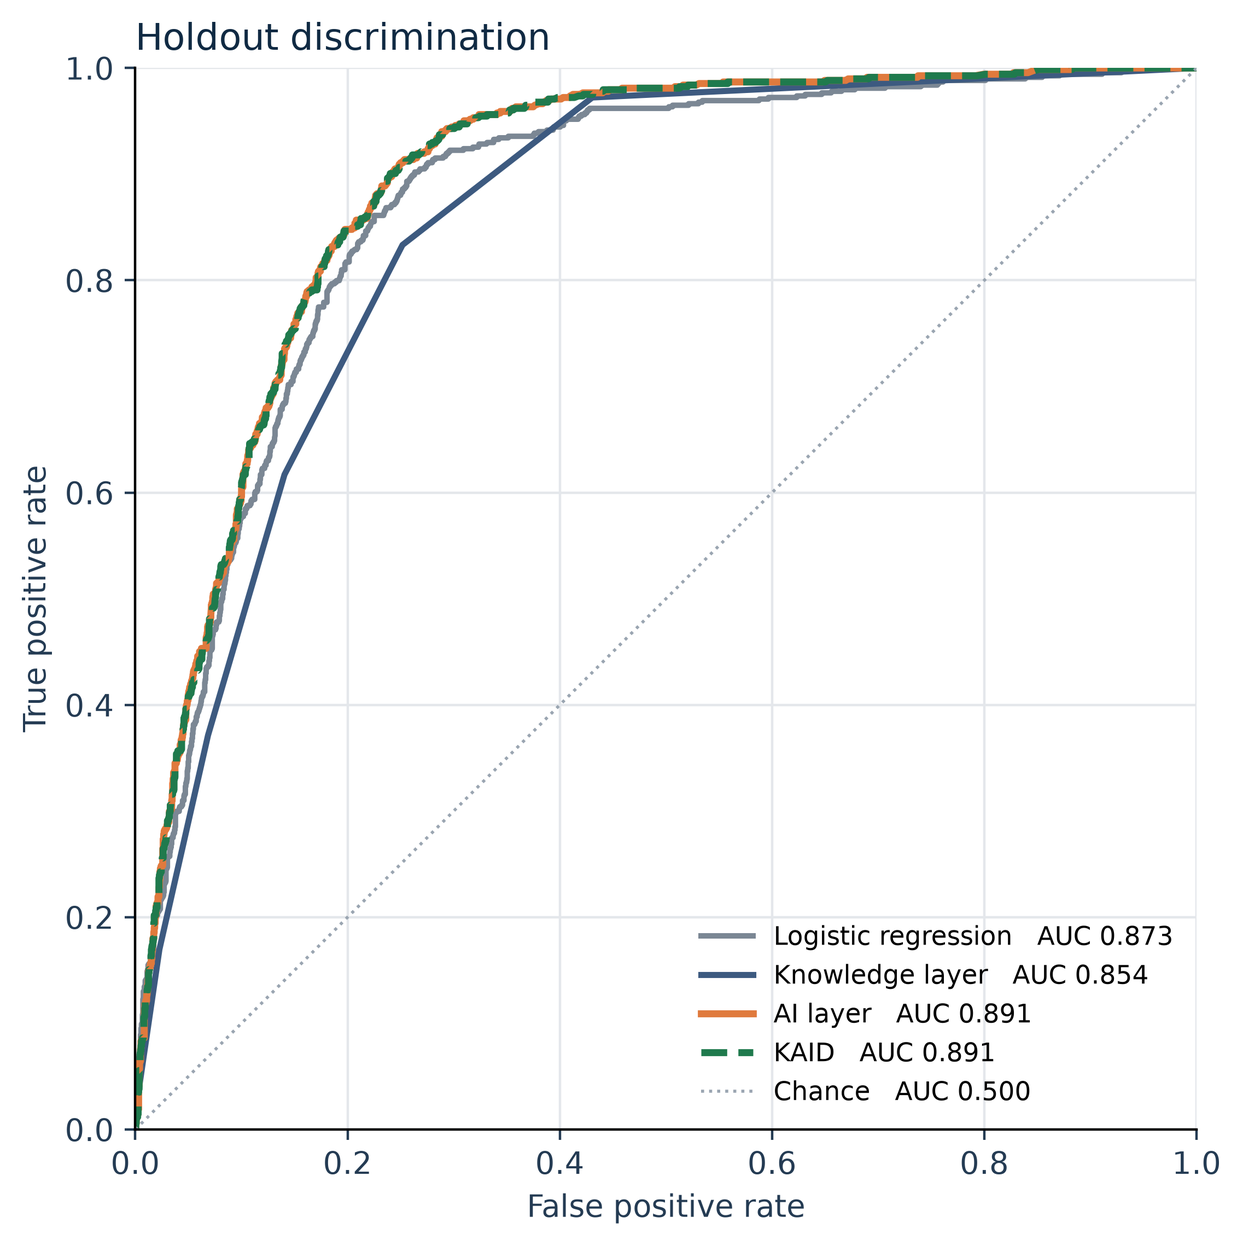
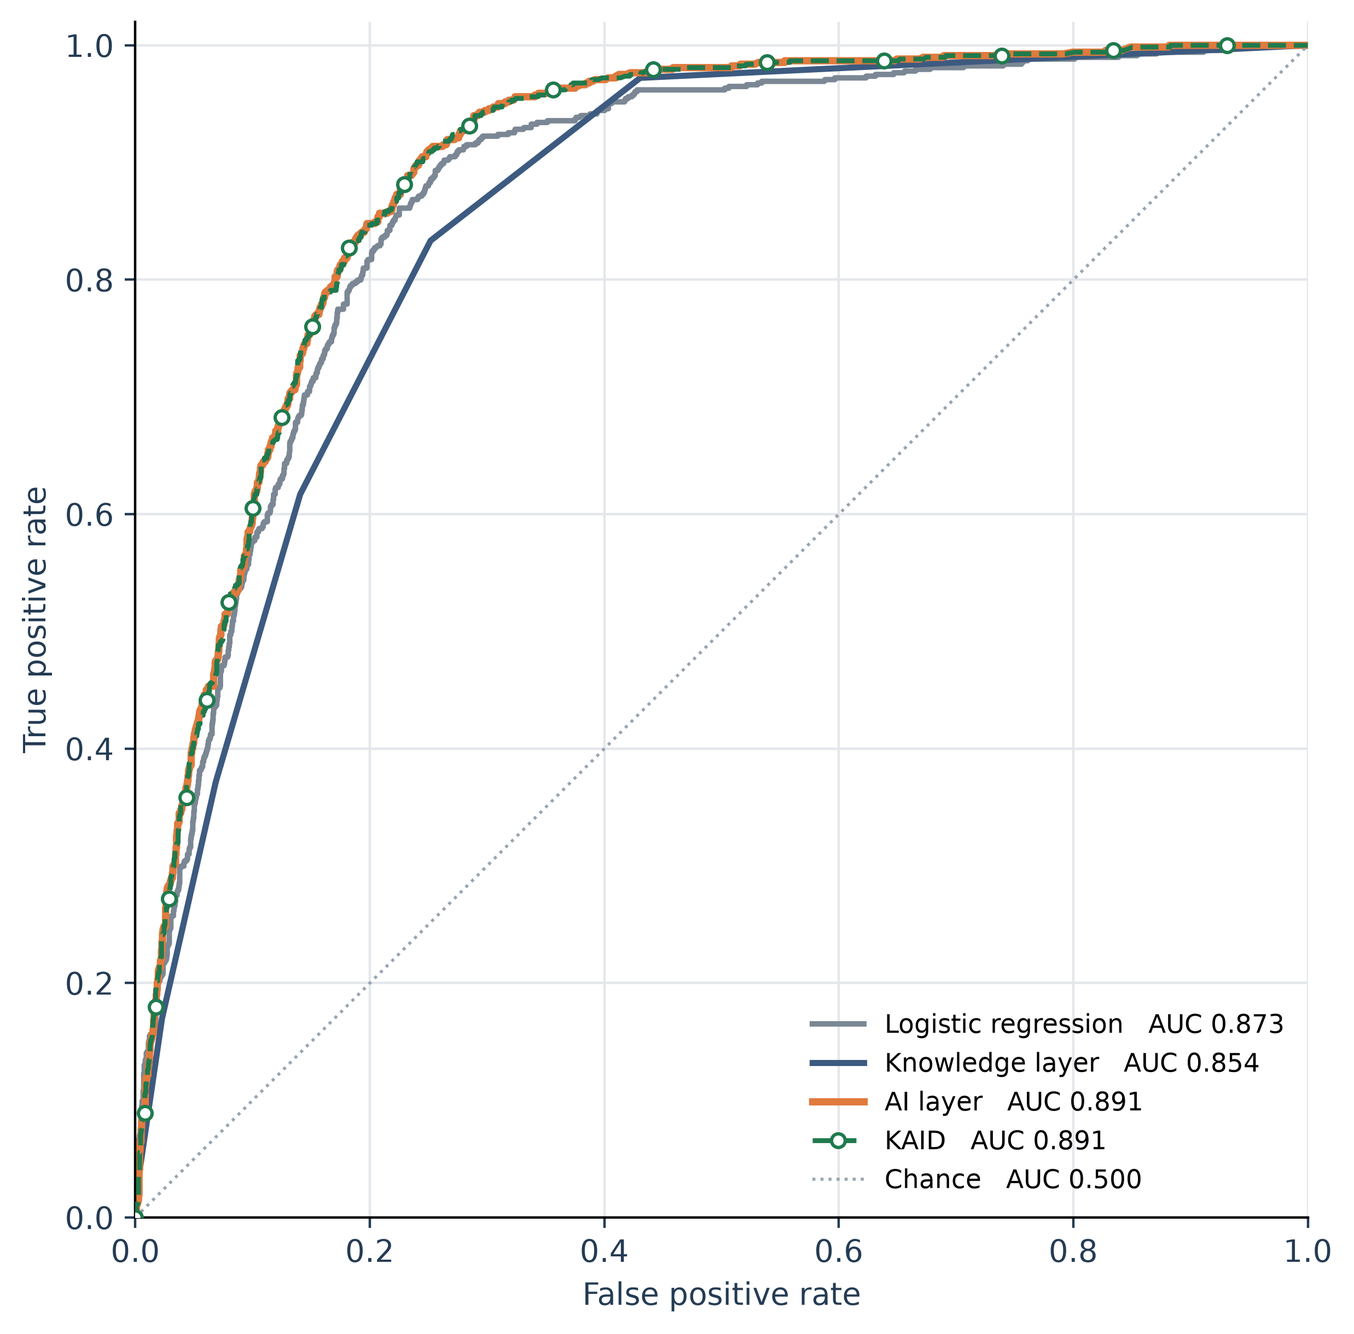
Align the method text with the code and clarify the two figures.
State the boosting settings, the frozen weight grid, and the bootstrap rule as implemented, and mark the KAID curve where it lies on the boosting curve.

diff --git a/kaid.py b/kaid.py
@@ -406,8 +406,8 @@ def plot_decision(path: Path, frame: pd.DataFrame, assigned: list[str], band_row
     ax.set_xticks(xs)
     ax.set_xticklabels(bands)
     ax.set_ylim(0, 1.05)
-    ax.set_ylabel("Share actually ready")
-    ax.set_title("(b)  Realized readiness (95% bootstrap interval)", loc="left", fontsize=11, color="#102A43", pad=18)
+    ax.set_ylabel("Share of firm-years coded ready")
+    ax.set_title("(b)  Realized readiness, with a 95% interval", loc="left", fontsize=11, color="#102A43", pad=18)
     ax.legend(frameon=False, loc="upper left")
     ax.yaxis.set_major_formatter(plt.FuncFormatter(lambda value, _pos: f"{int(value * 100)}%"))
     ax.grid(axis="y", color="#E4E7EB", zorder=0)
@@ -418,26 +418,34 @@ def plot_decision(path: Path, frame: pd.DataFrame, assigned: list[str], band_row
 
 
 def plot_roc(path: Path, target: np.ndarray, curves: dict[str, np.ndarray]) -> None:
-    fig, ax = plt.subplots(figsize=(6.8, 5.8))
+    fig, ax = plt.subplots(figsize=(6.6, 6.2))
     fig.patch.set_facecolor("white")
     style = {
-        "Logistic regression": ("#7B8794", "-", 1.8),
-        "Knowledge layer": ("#3D5A80", "-", 2.0),
-        "AI layer": ("#E07A3D", "-", 2.3),
-        "KAID": ("#1F7A4D", "--", 2.3),
+        "Logistic regression": dict(color="#7B8794", linestyle="-", lw=1.8),
+        "Knowledge layer": dict(color="#3D5A80", linestyle="-", lw=2.0),
+        "AI layer": dict(color="#E07A3D", linestyle="-", lw=2.4),
+        "KAID": dict(
+            color="#1F7A4D",
+            linestyle="--",
+            lw=1.6,
+            marker="o",
+            markevery=0.07,
+            markersize=4.5,
+            markerfacecolor="white",
+            markeredgewidth=1.1,
+            zorder=5,
+        ),
     }
     for name, probability in curves.items():
         fpr, tpr, _thresholds = roc_curve(target, probability)
         auc = roc_auc_score(target, probability)
-        color, linestyle, width = style[name]
-        ax.plot(fpr, tpr, color=color, linestyle=linestyle, lw=width, label=f"{name}   AUC {auc:.3f}")
+        ax.plot(fpr, tpr, label=f"{name}   AUC {auc:.3f}", **style[name])
     ax.plot([0, 1], [0, 1], color="#9AA5B1", lw=1, linestyle=":", label="Chance   AUC 0.500")
     ax.set_xlabel("False positive rate")
     ax.set_ylabel("True positive rate")
     ax.set_xlim(0, 1)
-    ax.set_ylim(0, 1)
+    ax.set_ylim(0, 1.02)
     ax.set_aspect("equal", adjustable="box")
-    ax.set_title("Holdout discrimination", loc="left", fontsize=12, color="#102A43")
     ax.legend(frameon=False, loc="lower right", fontsize=8.5)
     ax.grid(color="#E4E7EB")
     _style(ax)

diff --git a/paper.md b/paper.md
@@ -26,11 +26,13 @@ Digital transformation is a change in how a firm creates value, not a purchase o
 
 The knowledge-based view treats the firm as an institution that integrates specialist knowledge into a routine that can be used (Grant, 1996; Kogut & Zander, 1992). An artificial-intelligence output is another specialist product. Reviews of artificial intelligence in innovation management treat the model as an input to the innovation process (Haefner et al., 2021; Mariani et al., 2023), and the conversion of an AI capability into a business model is described as a co-evolutionary process (Sjödin et al., 2021). The output changes what the firm sells only when the surrounding routines can carry it (Foss & Saebi, 2017; Teece, 2010). Case and review work describes digital transformation itself as a continuing renewal of dynamic capabilities (Schneider et al., 2024; Warner & Wäger, 2019; Wohlleber et al., 2024). Readiness for that renewal is discussed as a multidimensional state, covering technological resources, business processes, management capability, human capability, and culture, and it is not settled by a single technology indicator (Michelotto & Joia, 2024). The same literature links transformation to the balance of exploitative and exploratory innovation (Liang & Li, 2024) and frames it as a springboard for product, process, and business-model innovation, including servitization of a product firm (Bresciani et al., 2021; Frank et al., 2019; Paiola & Gebauer, 2020). Field maps of that joint literature are already large (Gao et al., 2022; Kraus et al., 2022). A multidisciplinary agenda for artificial intelligence asks for organizational consequences, not only for a higher score (Dwivedi et al., 2021), and adoption studies in manufacturing locate take-up in technological, organizational, and environmental conditions (Chatterjee et al., 2021).
 
-Those studies do not, however, answer the managerial question that follows from them. A definition, a capability path, or a readiness framework does not tell a manager whether this firm, with this innovation record, should spend the next budget on a digital product. None of the studies cited above reports a holdout in which the digital markers are the label only, a transparent rule score is compared with logistic regression and gradient boosting on enterprises that do not cross the split, and each probability band is tied to the innovation routine that separates it. That comparison is the opening this Short Communication fills. Whether the rule score, the boosting score, or a blend of the two is the better probability is left to the holdout. It is not assumed.
+The stake is the next budget. A firm can add a website, a systems department, or a software line and still have no routine that carries a new offer. Counting those markers again as predictors would only rediscover the purchase. The studies cited above map the transformation, the capability path, or the readiness construct. None of them reports the comparison a budget decision needs: a holdout in which the digital markers are the label only, a transparent rule score is set against logistic regression and gradient boosting on enterprises that do not cross the split, and each probability band names the innovation routine that separates it. That comparison is the opening this Short Communication fills. Section 2 defines the label, the rules, and the scores. Section 3 asks which score carries the probability. Section 4 asks what a manager should do once that ranking is known. Whether the rule score, the boosting score, or a blend of the two is better is left to the holdout.
 
 This paper proposes KAID, a knowledge-based AI decision-support model for that comparison. Unlike a classifier that stops at a probability, KAID keeps the routines visible and ties each decision band to the routine that separates it from firms judged ready to proceed. The contribution is threefold, and each part is bounded by the test. First, a readiness label is constructed only from digital markers, so the innovation predictors are not scored against themselves. Second, an explicit six-rule knowledge layer is coupled to gradient boosting, with the coupling weight chosen on training data and then frozen. Third, an enterprise-level holdout reports a linear baseline, bootstrap intervals, and paired contrasts, so a claim that one layer adds something can be checked. The originality is that separation of roles. Section 3 asks which score carries the probability. Section 4 asks what the rules add once that question is answered. Averaging the two scores is not treated as a third contribution unless the holdout shows a gain.
 
 ## 2. Methodology
+
+The design follows the gap in Section 1. The label is built only from digital markers, so the innovation record is not scored against itself. The knowledge layer stays a short list of routines a manager can read. The weight that blends that list with the boosting probability is chosen on training enterprises and then frozen, so the holdout can reject the blend.
 
 ### 2.1 Readiness label
 
@@ -46,19 +48,19 @@ Firm-years with fewer than three observed markers are excluded, because the labe
 
 The knowledge layer is a production-rule base R = {r1, …, r6}, evaluated once per firm-year. A rule fires when any of its observed survey items equals 1. If every item for that rule is missing, the rule is missing and is left out of the share. The six rules, in the order used by the code, are knowledge creation (in-house R&D expenditure or a formal R&D department), external knowledge (external R&D expenditure), training for innovation, organizational integration (organizational innovation), product innovation, and process innovation. Innovation items follow the Oslo Manual (OECD/Eurostat, 2018).
 
-The raw knowledge score is the share of observed rules that fire, given by Eq. (2),
+Let f_{ir} equal 1 when rule r fires for firm-year i and 0 when the rule is observed and does not fire. Let R_i be the set of rules with at least one observed item. In this estimation sample every retained firm-year has all six rules observed, so |R_i| = 6 throughout. The raw knowledge score is the share of those rules that fire, given by Eq. (2),
 
 $$
-S_i^{0} = \frac{1}{|R_i|}\sum_{r \in R_i} r_i, \quad (2)
+S_i^{0} = \frac{1}{|R_i|}\sum_{r \in R_i} f_{ir}, \quad (2)
 $$
 
-and a training-only isotonic map g(·) converts that share into a probability S_i = g(S_i^0). The map is fit on training enterprises and applied unchanged to the holdout. External R&D fires for only 6.0% of the estimation sample, so it is retained as a rule and is not used as the routine a band most often lacks: a rare rule is absent in every band and would dominate that comparison for a mechanical reason.
+and a training-only isotonic map g(·) converts that share into a probability S_i = g(S_i^0). The map is an isotonic regression of the readiness label on S^0, clipped to the unit interval. It is fit on training enterprises and applied unchanged to the holdout. External R&D fires for only 6.0% of the estimation sample, so it is retained as a rule and is not used as the routine a band most often lacks: a rare rule is absent in every band and would dominate that comparison for a mechanical reason.
 
 Two candidate rules were specified and then removed from the main model. Innovation cooperation was not asked of 39% of estimation-sample firms, and the internet as an information source was not asked of 51%. Among firms who were not asked about cooperation, 0.1% were coded ready. Among firms who were not asked about the internet, 2.8% were coded ready. Using those gaps would have scored the questionnaire. Section 3 reports what cooperation adds on the subset where the question was fielded.
 
 ### 2.3 AI layer and the decision score
 
-The AI layer is histogram gradient boosting (Friedman, 2001) on the survey items inside the six rules, plus marketing innovation, foreign ownership, group membership, log employment, country, year, and sector. Missing answers on items that were asked of nearly every firm stay missing; the trees may use that missingness. Country, year, and sector are one-hot encoded from the training sample only.
+The AI layer is a histogram gradient booster in the gradient-boosting family (Friedman, 2001). Its inputs are the survey items inside the six rules, plus marketing innovation, foreign ownership, group membership, log(1 + employment), country, year, and sector. The fitted model uses trees of depth 4, a learning rate of 0.06, at most 400 iterations, an L2 penalty of 1.0, and at least 40 observations in a leaf. Early stopping holds out 15% of the rows inside the sample being fitted and stops after 20 rounds without improvement. That internal split is not the enterprise holdout, and it does not choose w. Missing numeric answers stay missing, so a tree may split on missingness for items that were asked of nearly every firm. Country, year, and sector are one-hot encoded from the rows of the current fit only. No class weight is applied. The probabilities are left on the scale of the outcome.
 
 Let P_i be the boosting probability. The KAID score is given by Eq. (3),
 
@@ -66,7 +68,7 @@ $$
 K_i = w P_i + (1 - w) S_i, \quad (3)
 $$
 
-where w is chosen on out-of-fold predictions inside the training sample to minimize the Brier score, then frozen. The holdout is not used to pick w. Firms are not classified by maximizing F1. They are placed with two cuts fixed before the holdout is opened. Let π be the training readiness rate. The band is given by Eq. (4):
+where w is chosen on out-of-fold predictions inside the training sample to minimize the Brier score, then frozen. The search is the grid {0, 0.05, …, 1}. The holdout is not used to pick w, and the band in Eq. (4) is a function of K_i, not of P_i alone. Firms are not classified by maximizing F1. They are placed with two cuts fixed before the holdout is opened. Let π be the training readiness rate. The band is given by Eq. (4):
 
 $$
 \text{band}(K_i) =
@@ -86,13 +88,13 @@ Output: band and the routine the band points to.
 
 1: Drop any firm-year with fewer than three observed digital markers, and set y_i by Eq. (1).
 2: Split enterprises, not firm-years, into training and holdout. No enterprise enters both.
-3: On training folds, fit the knowledge map g, the boosting model, and the weight w in Eq. (3).
-4: Refit g and the boosting model on all training enterprises. Freeze w.
+3: On five enterprise-grouped folds of the training sample, fit g and the boosting model. Choose w in Eq. (3) on those out-of-fold scores.
+4: Refit g and the boosting model on all training enterprises. Freeze w. The holdout is not used in steps 3 or 4.
 5: Score each holdout firm-year with Eq. (3) and assign the band in Eq. (4).
 6: Name the routine that separates that band from Prioritize, using only routines that fire for at least 15% of firms.
 7: Return the band, the score, and the named routine.
 
-Fixed seeds make the split, the boosting fit, and the bootstrap reproducible from the accompanying code.
+The holdout split, the boosting fit, the logistic fit, and the AUC bootstrap use seed 42. The band-rate bootstrap uses seed 43. The five training folds are deterministic given the enterprises. Running the accompanying code rebuilds every number in Section 3.
 
 ### 2.4 Data, sample, and evaluation
 
@@ -100,11 +102,15 @@ The source is the public Harmonized Latin American Innovation Surveys database, 
 
 Among retained firms the six routines fire at the following rates: knowledge creation 19.9%, external R&D 6.0%, training 21.3%, organizational innovation 27.9%, product innovation 32.0%, and process innovation 34.9%. A website, where asked, is reported by 50.5% of firms. An informatics department, where asked, is reported by 33.0%. Software, hardware, and ICT expenditure are reported by 18.5%, 16.7%, and 24.1%.
 
-The holdout is a group split of 20% of enterprises, seed 42. The training sample has 11,731 firm-years (9,656 enterprises). The holdout has 2,932 firm-years (2,414 enterprises) and a ready rate of 23.3%. Four scores are compared on that holdout: logistic regression with median imputation and standardized inputs; the knowledge layer; gradient boosting; and KAID. Classification thresholds used only for F1, precision, and recall are chosen on training out-of-fold scores to maximize F1. AUC and the Brier score do not use those thresholds.
+The holdout is a group split of 20% of enterprises, seed 42. An enterprise is the country code joined to the firm identifier, so a firm that appears in two survey years stays on one side of the split. The code stops if any enterprise is in both samples. The training sample has 11,731 firm-years (9,656 enterprises). The holdout has 2,932 firm-years (2,414 enterprises) and a ready rate of 23.3%. Four scores are compared on that holdout: logistic regression, the knowledge layer, gradient boosting, and KAID. The logistic baseline median-imputes numeric inputs, standardizes them, and fits an L2-penalized logistic regression with C = 1. That imputation is not used in the boosting layer. The same five enterprise-grouped training folds that choose w also supply the out-of-fold scores for the logistic baseline.
 
-Uncertainty is an enterprise bootstrap with 2,000 replicates and the same seed family as the split. Each replicate draws holdout enterprises with replacement and keeps every firm-year of a drawn enterprise. AUC intervals and paired AUC differences are computed on those replicates. A two-sided bootstrap p-value is twice the smaller share of replicates in which the difference is positive or negative. When no replicate changes sign, the reported result is p < 0.001. The same resampling gives the intervals on the band-specific ready rates in Section 3.
+Classification thresholds used only for F1, precision, and recall are chosen on those out-of-fold scores. The grid runs from 0.05 to 0.95 in steps of 0.025, and the cut with the highest training F1 is frozen. AUC and the Brier score do not use those thresholds. The decision bands do not use them either.
+
+Uncertainty is an enterprise bootstrap with 2,000 replicates. Each replicate draws holdout enterprises with replacement and keeps every firm-year of a drawn enterprise. AUC intervals and paired AUC differences use seed 42. Band-rate intervals use seed 43. A replicate that draws a single class is dropped. A two-sided bootstrap p-value is twice the smaller of the share of replicates in which the paired difference is at most zero and the share in which it is at least zero, and it is capped at 1. When no replicate changes sign, the reported result is p < 0.001. Section 3 opens with the probability comparison. The bands are read only after that comparison is on the table.
 
 ## 3. Results
+
+The holdout is used here for the first time. Table 1 compares the four scores on discrimination, calibration, and a frozen F1 cut. Table 2 tests the paired differences. Figure 1 then shows what those scores do as a budget screen, and Figure 2 shows why the blended curve does not separate from boosting.
 
 Table 1 is the holdout comparison. Logistic regression reaches AUC 0.873 (95% interval 0.860–0.887). The six-rule knowledge layer reaches 0.854 (0.840–0.867). Gradient boosting reaches 0.891 (0.879–0.903). KAID reaches 0.891 (0.878–0.903). The Brier score moves in the same direction: 0.120, 0.125, 0.110, and 0.110. Mean predicted probability on the holdout is 0.237 for boosting and 0.237 for KAID, against a ready rate of 0.233, so the probabilities sit on the scale of the outcome. The Prioritize cut of 0.50 is therefore a high bar relative to the base rate, not a cut that merely recovers the sample prevalence.
 
@@ -134,17 +140,19 @@ Two thousand replicates. A negative difference means the first method is worse.
 
 ![Holdout decision bands](figures/figure1_decision.png)
 
-Figure 1. Holdout decision bands. Panel (a) is the share of firm-years in which each knowledge routine fires. Panel (b) is the share actually ready, with a 95% enterprise-bootstrap interval. The dashed line is the holdout base rate.
+Figure 1. Holdout decision bands from the KAID score K. Panel (a) is the share of firm-years in which each knowledge routine fires. All six routines were observed for every retained firm-year. Panel (b) is the share coded ready, with a 95% enterprise-bootstrap interval. The dashed line is the holdout base rate, 23.3%. The three intervals do not overlap. Process innovation and training are the routines that separate Hold from Prioritize.
 
 Figure 1 is the decision the probability is for. Of 2,932 holdout firm-years, 1,786 fall in Hold and 4.0% of them are ready (3.1–5.0). 487 fall in Develop and 38.4% are ready (33.9–42.5). 659 fall in Prioritize and 64.5% are ready (60.7–68.2). The intervals do not overlap. Relative to Prioritize firms, Hold firms are separated by process innovation: it is absent for 93.5% of Hold firm-years and for 11.8% of Prioritize firm-years. Training is absent for 98.2% of Hold firm-years. Develop firms are separated by training, absent for 72.9% against 29.3% in Prioritize. Inside Prioritize, the routine most often still missing is knowledge creation: 48.0% have neither in-house R&D expenditure nor an R&D department. External R&D is rare in every band and is not used as that recommendation.
 
 ![Holdout receiver-operating curves](figures/figure2_roc.png)
 
-Figure 2. Holdout receiver-operating curves. KAID is drawn dashed because it lies on the AI curve: the training weight on the AI layer is 0.95.
+Figure 2. Holdout receiver-operating curves. The dashed KAID curve is marked so it remains visible where it lies on the AI curve. The training weight on the AI layer is 0.95, and the paired difference in AUC is −0.0002 (p = 0.223). The diagonal is chance.
 
 Figure 2 shows the same paired result as overlapping curves. Process innovation is the strongest single boosting input. Dropping it and refitting the AI layer leaves a holdout AUC of 0.852, close to the knowledge layer and still above chance. The gain from 0.852 to 0.891 is the rest of the innovation record, not one item standing alone. On the 1,782 holdout firm-years where cooperation was asked, the main AI model has AUC 0.800, cooperation alone has AUC 0.634, and adding the cooperation item moves AUC from 0.800 to 0.811.
 
 ## 4. Discussion
+
+Section 3 ranked the scores. The reason to keep the rules is not that ranking. A manager who receives only an AUC still does not know which routine the next budget would have to supply, which is the decision the introduction set out to support.
 
 The holdout separates two questions that the cited literature often keeps together. The first is which score carries the probability. A linear reading of the innovation survey already reaches AUC 0.873. Six explicit routines are a readable compression of that record, and they lose to the linear model by 0.020 AUC. Boosting adds a further 0.018 over logistic regression. Blending the knowledge probability back in, at the training weight w = 0.95, does not improve on boosting (p = 0.223). That negative result qualifies the second contribution. Coupling the layers was worth testing because reviews treat an artificial-intelligence output as an input to the innovation process rather than as a substitute for it (Haefner et al., 2021; Mariani et al., 2023; Sjödin et al., 2021). The organizational consequence those reviews ask for is not, on this holdout, a higher score (Dwivedi et al., 2021). A reader who wants only a probability can stop at the AI layer.
 
@@ -162,7 +170,7 @@ The microdata are not included. LAIS is distributed by the Inter-American Develo
 
 This Short Communication presented KAID, a knowledge-based AI decision aid that predicts digital-transformation readiness from enterprise innovation data and returns a band rather than only a rank. The studies cited in the introduction map digital transformation, capabilities, and readiness. They do not score this innovation record. Across 2,932 holdout firm-years, gradient boosting was the better probability, a logistic model beat an explicit six-rule score, and blending the two probabilities did not help. The bands still separated realized readiness from 4.0% to 64.5%, and each band pointed to a different missing routine: process innovation, training, or knowledge creation.
 
-KAID is a pre-commitment screen for a data-centric offer. It is not a valuation of that offer, and it is not evidence that buying the named routine will cause readiness. Used that way, the negative result on the blend is part of the finding. The probability and the rule answer different questions, and only one of them should be averaged.
+KAID is a pre-commitment screen for a data-centric offer. It matters where a firm must decide the next budget before it has revenue from a digital product. It is not a valuation of that offer, and it is not evidence that buying the named routine will cause readiness. Used that way, the negative result on the blend is part of the finding. The probability and the rule answer different questions, and only one of them should be averaged.
 
 ## CRediT authorship contribution statement
 
